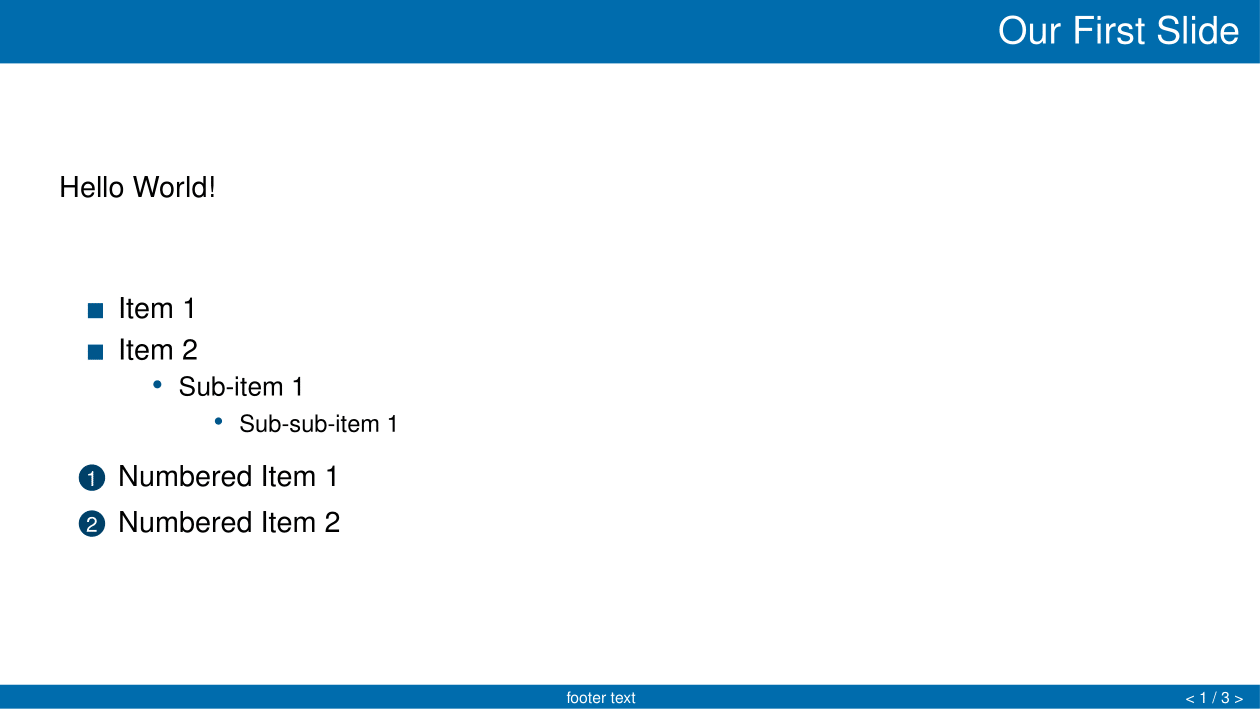
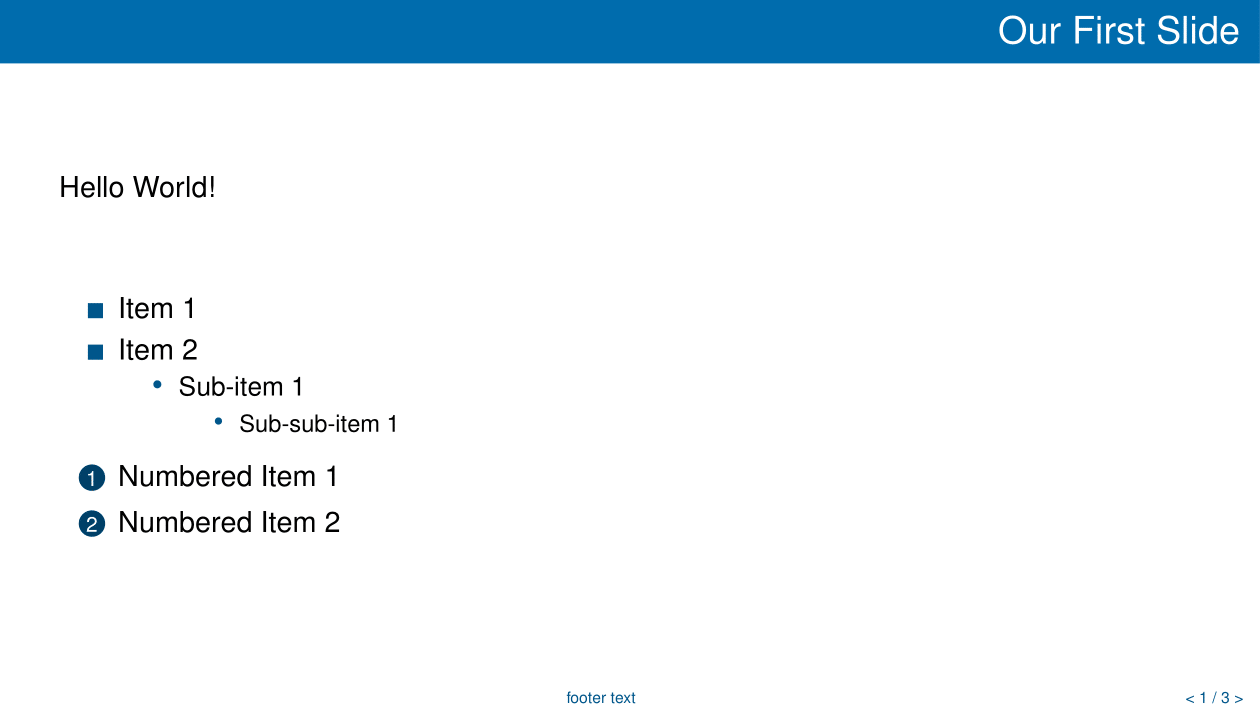
finalize beamer theme - delete cleaner version

Changed region(s): [[0.0, 0.9619, 1.0, 1.0]]

diff --git a/README.md b/README.md
@@ -2,7 +2,6 @@
 
 This is a self-made unofficial LaTeX Beamer theme for Monash Business School Department of Banking and Finance. 
 
-*Update:* I've created a cleaner version of the theme and put it into the `Cleaner` branch, free feel to check it out. 
 
 ## Example
 
@@ -40,6 +39,6 @@ In your `.tex` file, add `\usetheme{monbs}` to the preamble to use the theme.
 ## About the Design
 
 - The Colour Theme: The main colour tone is obviously (Monash) Blue, the exact colour code of which is referenced from [here](https://www.monash.edu/__data/assets/pdf_file/0004/1656508/9.-Digital-Guidelines.pdf). 
-- The Inner Theme: I use squares as the bullet type for `itemize`. 
-- The Outer Theme: This theme has a minimal but elegant outer-theme design - the frame title features Monash blue as the background colour and I made the height of frame title smaller than default to reserve space for the body; the footer only has the short title name in the centre and the frame number on the far right, with Monash blue as the background colour. 
+- The Inner Theme: I use squares as the bullet type for `itemize` items, and circles for subitems. 
+- The Outer Theme: This theme has a minimal but elegant outer-theme design - the frame title features Monash blue as the background colour and I made the height of frame title smaller than default to reserve space for the body; the footer only has the short title name in the centre and the frame number on the far right, with Monash blue as the font colour. 
 - The Font Theme: The text font theme is helvetica, and the maths font theme is Fourier, both of which in my opinion look nicer than the default.
